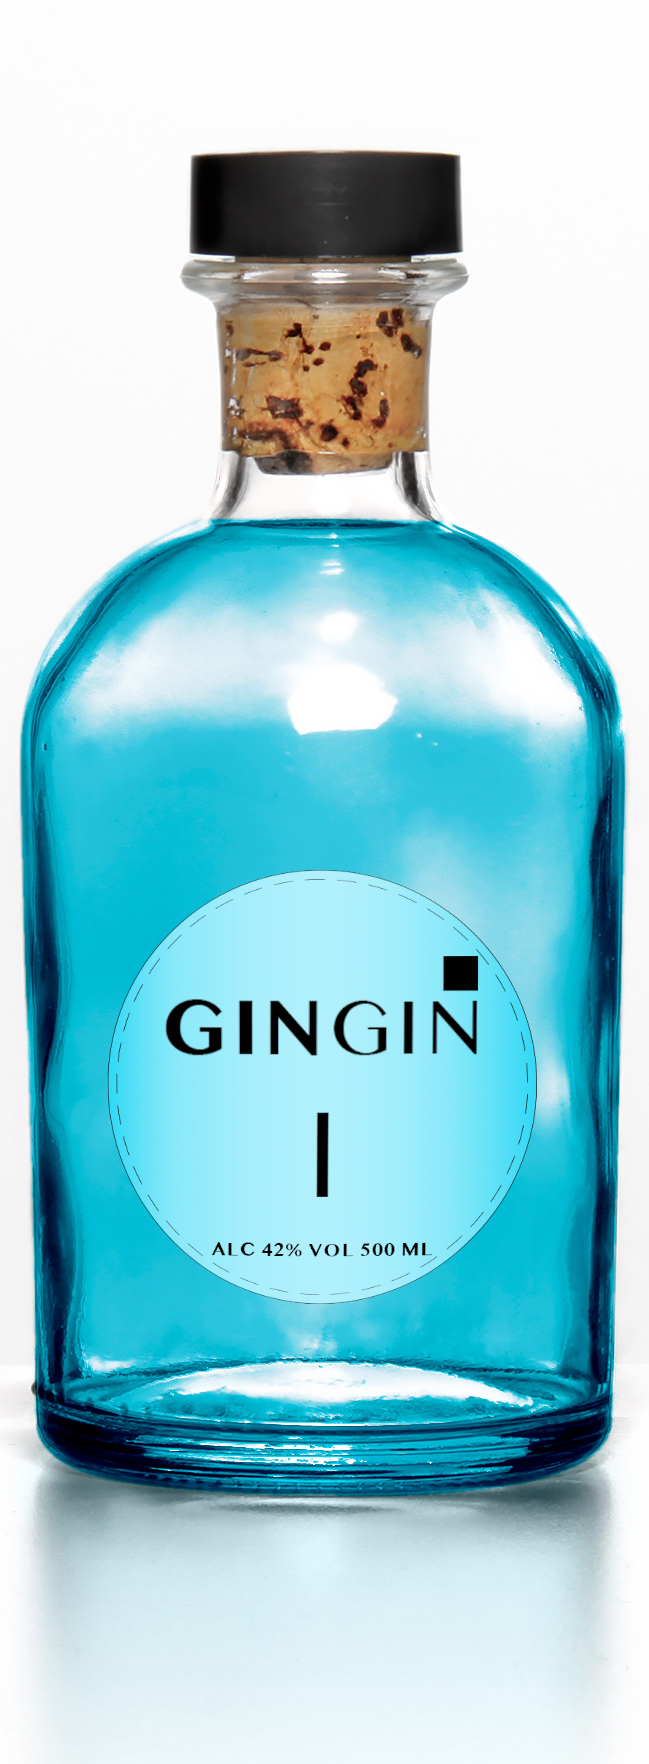
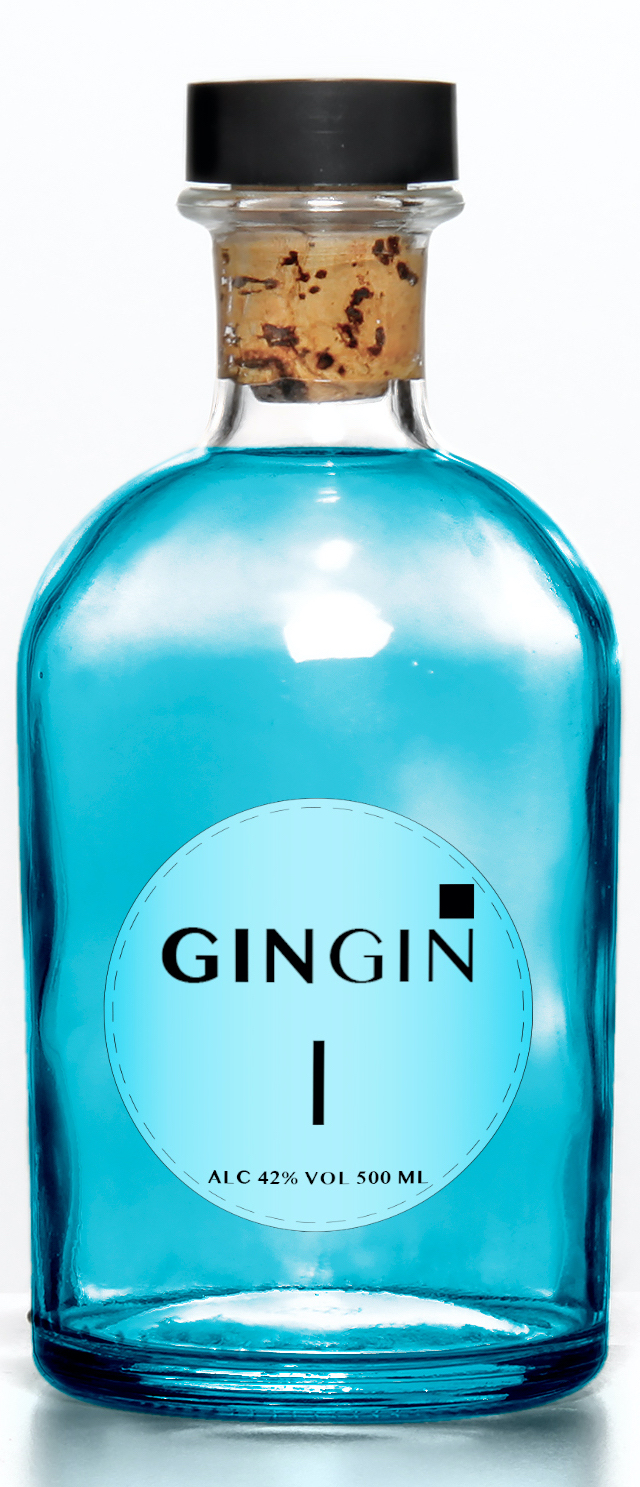
mobile done - video

diff --git a/Index.html b/Index.html
@@ -54,18 +54,18 @@
 
     <!-- Tilføj dit indhold under denne linie -->
 
-    <main class="container no-gutters">
+    <main class="container">
 
         <section id="hero" class="row position-relative no-gutters">
             <div class="col-12 p-5 text-center">
                 <img class="img-fluid col-8 col-md-4 col-lg-4" src="img/hero.png">
 
-                <h3 class="col-12 position-absolute text">GIN GIN GIN GIN GIN GIN</h3>
+                <h3 class="col-12 position-absolute text">Ekstra Ordniær Almindelig</h3>
             </div>
         </section>
 
         <section id="about" class="row position-relative col-12 pt-5 col-md-12 no-gutters">
-            <img class="img-fluid col-10 col-md-6" src="img/a1.jpg">
+            <img class="img-fluid col-10 pl-4 col-md-6" src="img/a1.jpg">
             <img class="img-fluid col-8 col-md-6 position-absolute corner" src="img/a2.jpg">
 
             <div class="col-12 col-md-1 p-5 dn">
@@ -73,7 +73,7 @@
             <!--class lavet til at fylde ud-->
 
 
-            <div class="col-12 mb-5 col-md-6">
+            <div class="col-12 pl-4 mb-5 col-md-6">
                 <br>
                 <h3>
 
@@ -98,8 +98,8 @@
 
 
         <section id="konkurrence" class="row col-12 no-gutters position-relative">
-            <img class="img-fluid col-10 col-md-6 col-lg-5 position absolute corner1" src="img/gingin.jpg">
-            <img class="img-fluid position-absolute col-9 col-md-6 col-lg-5 corner2" src="img/k2.jpg">
+            <img class="img-fluid col-6 col-md-6 col-lg-5 position absolute corner1" src="img/gingin3.png">
+            <img class="img-fluid position-absolute col-8 col-md-6 col-lg-5 corner2" src="img/k2.jpg">
 
 
             <div class="col-12 col-md-0 p-5 dn">

diff --git a/style.css b/style.css
@@ -74,17 +74,17 @@ a:hover {
 
 .corner {
     top: 380px;
-    left: 130px;
+    left: 145px;
 }
 
 .corner1 {
-    top: 10px;
-    left: 80px;
+    top: 30px;
+    left: 230px;
 }
 
 .corner2 {
-    top: 160px;
-    right: 120px;
+    top: 420px;
+    left: 20px;
     z-index: 1;
 }
 
@@ -199,6 +199,10 @@ footer p {
 /* // Large devices (desktops, 992px and up) */
 /**************************************************/
 @media (min-width: 992px) {
+
+    body {
+        margin: auto;
+    }
 
 
     .corner1 {
